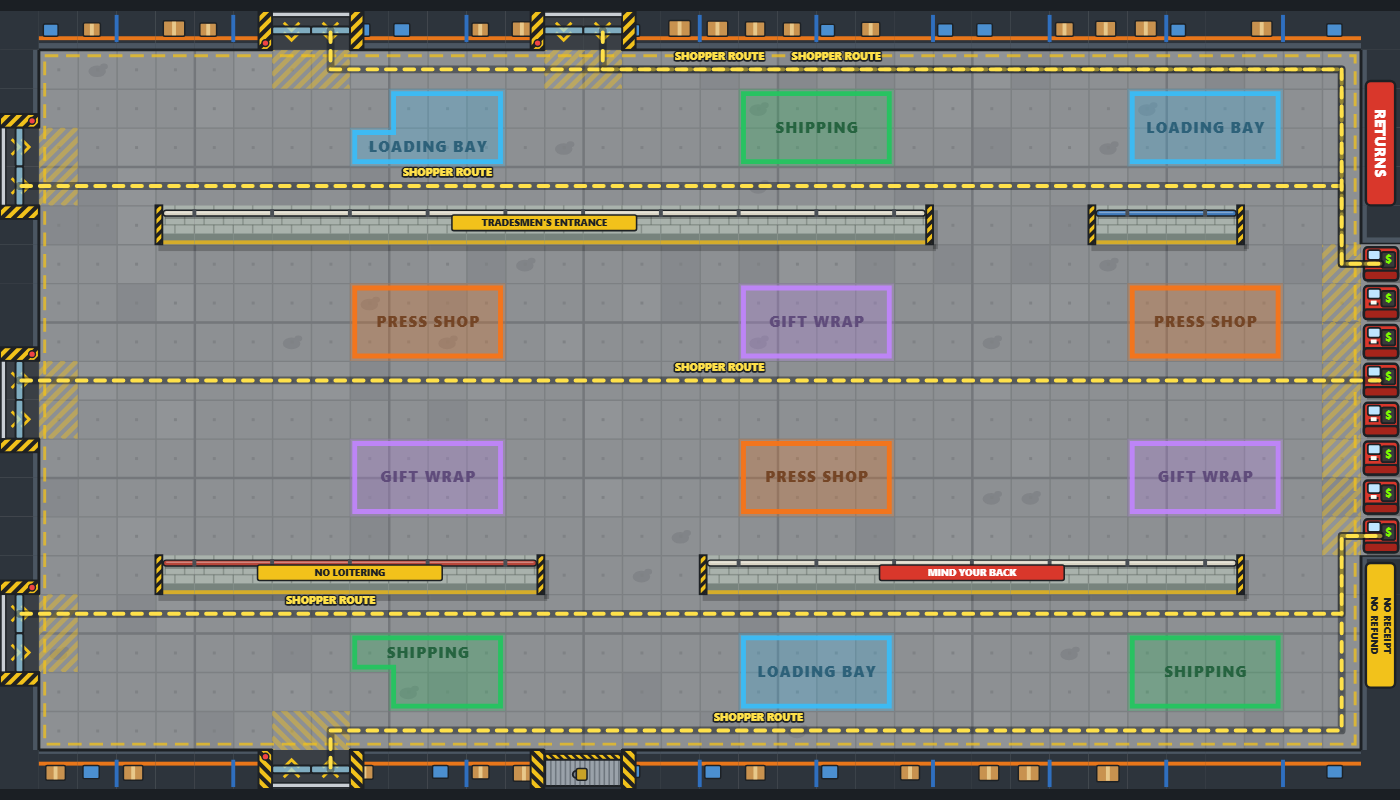
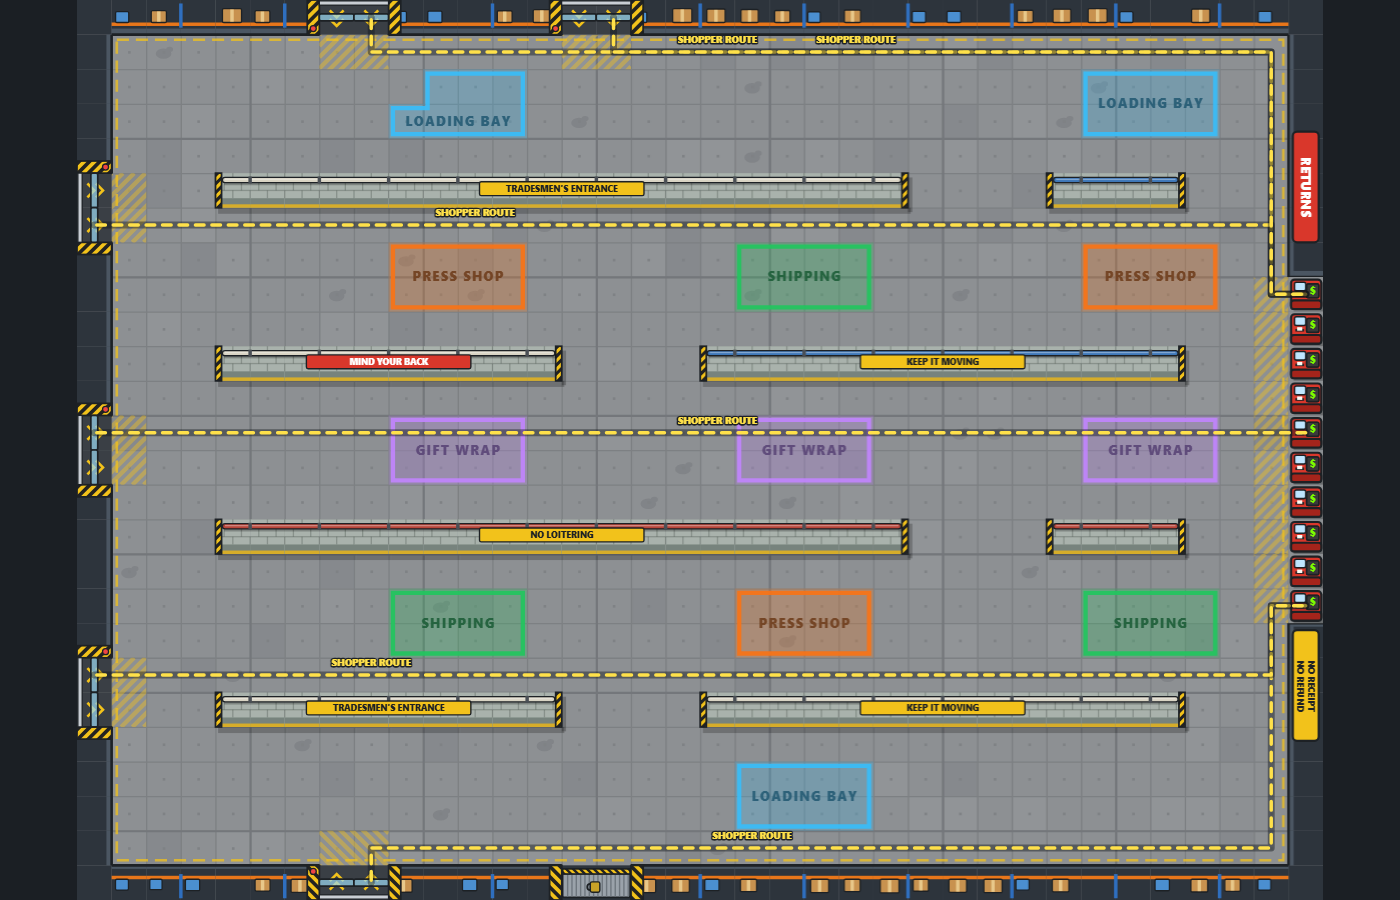
The Back Passage gets a taller floor plan of its own, so even the small stores have four to six corridors (0.3.01)
The Back Passage used the same rectangle as most designs, which left only three corridors
on the two smallest sizes. It now has a plot of its own (passageSize in src/sim/maps.js):
as wide as the size's rectangle but taller, with more corridors stacked up.

  Corner Shop 30 x 16 -> 30 x 19, 3 -> 4 corridors
  Outlet      36 x 20 -> 36 x 26, 3 -> 5
  Superstore  44 x 24 -> 44 x 28, 4 -> 5
  Megastore   54 x 30 -> 54 x 35, 5 -> 6
  Hypermarket 66 x 37 -> 66 x 43, 7 -> 8
  Distribution Centre 81 x 45 -> 81 x 53, 8 -> 10
  Regional Hub 99 x 55 -> 99 x 65, 10 -> 12
  Mega Mall  121 x 67 -> 121 x 78, 13 -> 15

The height is the lowest that gives the size its fewest corridors (4, 5, 5, 6 on the four
smallest) and at least an Open Warehouse's floor, preferring one where the top and bottom
corridors have a row to spare. The floor comes out 0.5 to 8% bigger than the warehouse's,
except the Outlet at 18%, which five corridors need. Patches of marked floor are two rows
tall, or one where two would leave room for only three corridors (the Corner Shop).

A Loading Bay no longer loses tiles to the floor in front of a top or bottom entrance on
the Corner Shop, the Hypermarket or the Mega Mall; only the Outlet still loses one tile.
The line checker fits the first production line in every section on every size (and more
second lines than before). Walks from every entrance to the tills are the same as on the
Open Warehouse, and the other entrances are 0.76 to 1.10 times the first.
[…]

diff --git a/src/sim/maps.js b/src/sim/maps.js
@@ -49,7 +49,7 @@ export const MAP_DESIGNS = {
   },
   corridors: {
     name: 'The Back Passage',
-    desc: 'Staff only. Long service corridors with a few gaps in the walls, and every kind of painted floor in a different corridor: your belts squeeze through the same gaps as the crowd.',
+    desc: 'Staff only. Long service corridors with a few gaps in the walls, and every kind of painted floor in a different corridor: your belts squeeze through the same gaps as the crowd. The plot is taller than most, to fit more corridors in.',
   },
   horseshoe: {
     name: 'The Strip Mall',
@@ -59,12 +59,15 @@ export const MAP_DESIGNS = {
 
 /**
  * The width and height of a store of this design and size: the rectangle in MAP_SIZES, unless a
- * design needs a bigger plot. Everything outside this file must read the made map's `w` and `h`.
+ * design needs a bigger plot (the Back Passage a taller one, the Strip Mall a bigger one).
+ * Everything outside this file must read the made map's `w` and `h`: a game keeps the plan it
+ * was made with, even if the design's plot changes in a later version.
  * @returns {{w: number, h: number}}
  */
 export function mapSize(design, size) {
   const z = MAP_SIZES[size] || MAP_SIZES.xs;
   if (design === 'horseshoe') return stripSize(MAP_SIZES[size] ? size : 'xs');
+  if (design === 'corridors') return passageSize(MAP_SIZES[size] ? size : 'xs');
   return { w: z.w, h: z.h };
 }
 
@@ -636,13 +639,15 @@ export function makeZones(w, h, tiles, doors, design) {
 // The Back Passage (version 0.3): the store's service corridors.
 
 /**
- * The Back Passage's layout, worked out from the size alone, so the walls (passages) and the
- * marked floor (passageZones) always agree. Long walls run across the store, leaving a hall
+ * The Back Passage's layout, worked out from the width and height alone, so the walls (passages)
+ * and the marked floor (passageZones) always agree. Long walls run across the store, leaving a hall
  * three tiles wide along the left wall (in front of the entrances) and the right (in front of the
- * tills), and cut it into corridors, as many as fit (three on the smallest stores, thirteen on the
- * biggest); the layout is the same upside down. Each production line has its four kinds of
- * marked floor in four corridors one below the other (on the three-corridor stores the Press Shop
- * and Gift Wrap share the middle one), so every line has to get through the walls between them.
+ * tills), and cut it into corridors, as many as fit (four on the smallest store, fifteen on the
+ * biggest: the design's plot is taller than the size's rectangle, see passageSize); the layout is
+ * the same upside down. Each production line has its four kinds of marked floor in four corridors
+ * one below the other (a store too low for four corridors, which no size is since 0.3.01, has
+ * three, and the Press Shop and Gift Wrap share the middle one), so every line has to get through
+ * the walls between them.
  * The walls have few openings: in the gap between two sections of marked floor, but only every
  * other gap, taking turns from one wall to the next, so a belt usually runs along its corridor to
  * find one. A whole production line reaches from one of the outer corridors to the other, so the
@@ -654,17 +659,21 @@ export function makeZones(w, h, tiles, doors, design) {
  */
 function passagePlan(w, h) {
   const rows = h - 2;
-  const tall = h < 18 ? 1 : 2;
   // The least each corridor needs: a patch and a row either side of it (two patches and three
   // rows on the three-corridor layout's middle one).
-  const need = (K) => Array.from({ length: K }, (_, j) => (K === 3 && j === 1 ? 2 * tall + 3 : tall + 2));
+  const need = (K, tall) => Array.from({ length: K }, (_, j) => (K === 3 && j === 1 ? 2 * tall + 3 : tall + 2));
   const thick = (K) => (K % 2 === 0 && h % 2 === 0 ? 1 : 0);
-  const fits = (K) => need(K).reduce((a, b) => a + b, 0) + K - 1 + thick(K) <= rows;
-  let K = 3;
-  while (fits(K + 1)) K++;
+  const fits = (K, tall) => need(K, tall).reduce((a, b) => a + b, 0) + K - 1 + thick(K) <= rows;
+  const most = (tall) => { let K = 3; while (fits(K + 1, tall)) K++; return K; };
+  // Patches are two rows tall, unless that leaves room for only three corridors (the Corner
+  // Shop): then one row, which makes room for a fourth.
+  let tall = 2, K = most(2);
+  if (K < 4) { tall = 1; K = most(1); }
   // Rows left over go to the narrowest corridors, a pair (one above the middle and its mirror
   // below) at a time; a single row left over goes to the middle corridor.
-  const hts = need(K);
+  // (Ties go to the outer pair first, so the top and bottom corridors are the first to get a row
+  // more: that keeps their Loading Bays clear of the floor in front of an entrance in the outer wall.)
+  const hts = need(K, tall);
   let spare = rows - hts.reduce((a, b) => a + b, 0) - (K - 1) - thick(K);
   const half = K >> 1, odd = K % 2;
   while (spare > 0) {
@@ -715,6 +724,43 @@ function passagePlan(w, h) {
  */
 const HALL = 3;
 
+/**
+ * The fewest corridors the Back Passage has on the smaller sizes (the owner asked for more
+ * corridors than the size's own rectangle has room for). The bigger sizes have plenty anyway.
+ */
+const PASSAGE_LEAST = { xs: 4, s: 5, m: 5, l: 6 };
+
+const passageCache = new Map();
+/**
+ * The Back Passage's plot for a size: the size's width, made taller (more corridors, one above
+ * the other) until it has at least PASSAGE_LEAST corridors and at least as much floor as an Open
+ * Warehouse of that size, the walls taking some. Of those heights it takes the lowest at which the
+ * top and bottom corridors also have a row to spare (so a Loading Bay never loses a tile to the
+ * floor in front of an entrance) without the floor coming out more than 15% bigger than the
+ * warehouse's; if there is none, the lowest. Worked out once per size.
+ */
+function passageSize(size) {
+  let hit = passageCache.get(size);
+  if (hit) return { ...hit };
+  const { w, h } = MAP_SIZES[size];
+  const target = [...makeMap('warehouse', size, 1).tiles].filter((c) => c === '.').length;
+  const least = PASSAGE_LEAST[size] || 0;
+  const fit = [];
+  for (let H = h; H <= 2 * h; H++) {
+    const plan = passagePlan(w, H);
+    if (plan.bands.length < least) continue;
+    let walls = 0;
+    passages(w, H, () => walls++);
+    const floor = (w - 2) * (H - 2) - walls;
+    if (floor < target) continue;
+    const roomy = plan.bands[0][1] - plan.bands[0][0] + 1 >= plan.tall + 3;
+    fit.push({ H, roomy: roomy && floor <= target * 1.15 });
+  }
+  hit = { w, h: (fit.find((f) => f.roomy) || fit[0]).H };
+  passageCache.set(size, hit);
+  return { ...hit };
+}
+
 /** The Back Passage: the corridor walls, with their openings (see passagePlan). */
 function passages(w, h, wall) {
   const { walls, gaps } = passagePlan(w, h);
@@ -732,7 +778,8 @@ function passages(w, h, wall) {
  * from the bottom corridor up. A patch is in the middle of its corridor, or in the top and bottom
  * corridors as far from the outer wall as it can be with a row to spare: that keeps a Loading Bay
  * clear of the two rows in front of an entrance in that wall where the corridor is wide enough.
- * Where it is not (the two smallest stores), the tiles in front of the entrance are left off it.
+ * Where it is not (the Outlet, where one tile is lost), the tiles in front of the entrance are
+ * left off it.
  * @returns {string} one character per tile: a key of ZONES, or a space
  */
 function passageZones(w, h, tiles, doors) {

diff --git a/test/newmaps.test.js b/test/newmaps.test.js
@@ -4,7 +4,7 @@
 import test from 'node:test';
 import assert from 'node:assert/strict';
 import {
-  createGame, addPlayer, applyCommand, canPlace, step, makeMap, getDist, mapSize, setMap, tillBanks,
+  createGame, addPlayer, applyCommand, canPlace, step, makeMap, makeZones, getDist, mapSize, setMap, tillBanks,
   MAP_SIZES, MAP_DESIGNS, ZONES, BUILD, DECOR, UNREACHABLE,
 } from '../src/sim/index.js';
 import { createDirector, PLACE_BANKS } from '../src/content/director.js';
@@ -179,11 +179,14 @@ function corridorsOf(s) {
 }
 
 test('the Back Passage is long corridors: walls right across, few openings, more corridors on bigger stores', () => {
+  // The fewest corridors on each size: what the owner asked for on the four smallest (0.3.01, on a
+  // taller plot), and on the bigger ones what they had on the size's own rectangle.
+  const least = { xs: 4, s: 5, m: 5, l: 6, xl: 7, xxl: 8, huge: 10, titan: 13 };
   let last = 0;
   for (const size of SIZES) {
     const s = createGame({ map: { design: 'corridors', size } });
     const { wallRow, count } = corridorsOf(s);
-    assert.ok(count >= 3, `${size}: ${count} corridors`);
+    assert.ok(count >= least[size], `${size}: ${count} corridors`);
     assert.ok(count >= last, `${size}: fewer corridors than the size below`);
     last = count;
     const sections = Math.floor((s.w - 4 - 3 - 9) / 10) + 1;
@@ -209,15 +212,57 @@ test('in the Back Passage the four kinds of marked floor of a section are in dif
       const at = {};
       for (let y = 1; y < s.h - 1; y++) for (let x = x0; x < x0 + 4; x++) if (s.zones[y * s.w + x] !== ' ') at[s.zones[y * s.w + x]] = band[y];
       assert.deepEqual(Object.keys(at).sort(), ['c', 'k', 'p', 'u'], `${size} x${x0}`);
-      if (count === 3) {
-        assert.ok(at.u !== at.p && at.c !== at.k && at.u !== at.c, `${size} x${x0}: ${JSON.stringify(at)}`);
-      } else {
-        assert.equal(new Set(Object.values(at)).size, 4, `${size} x${x0}: ${JSON.stringify(at)}`);
-        // ...one corridor after another, so every belt goes through just one wall.
-        assert.equal(Math.abs(at.u - at.p) + Math.abs(at.p - at.k) + Math.abs(at.k - at.c), 3, `${size} x${x0}`);
+      assert.ok(count >= 4, `${size}: ${count} corridors`);
+      assert.equal(new Set(Object.values(at)).size, 4, `${size} x${x0}: ${JSON.stringify(at)}`);
+      // ...one corridor after another, so every belt goes through just one wall.
+      assert.equal(Math.abs(at.u - at.p) + Math.abs(at.p - at.k) + Math.abs(at.k - at.c), 3, `${size} x${x0}`);
+    }
+  }
+});
+
+test('the Back Passage is taller than the size\'s rectangle, with about as much floor as the Open Warehouse', () => {
+  for (const size of SIZES) {
+    const s = createGame({ map: { design: 'corridors', size } });
+    const open = createGame({ map: { design: 'warehouse', size } });
+    // As wide as the size's rectangle; the extra room is more corridors stacked up.
+    assert.equal(s.w, MAP_SIZES[size].w, size);
+    assert.ok(s.h > MAP_SIZES[size].h, `${size}: ${s.w} x ${s.h}`);
+    assert.ok(s.w / s.h > 1.3, `${size}: ${s.w} x ${s.h} is too tall for a screen`);
+    // No less floor than the warehouse, the walls taking their share, and not much more. (The
+    // Outlet comes out 18% bigger: five corridors need that height.)
+    const ratio = floorOf(s) / floorOf(open);
+    assert.ok(ratio >= 1 && ratio <= (size === 's' ? 1.2 : 1.15), `${size}: ${floorOf(s)} floor tiles, ${floorOf(open)} on the Open Warehouse`);
+  }
+});
+
+test('in the Back Passage a Loading Bay loses no tile to an entrance (but one on the Outlet, with no row to spare)', () => {
+  for (const size of SIZES) {
+    const s = createGame({ map: { design: 'corridors', size } });
+    const tall = size === 'xs' ? 1 : 2; // (the Corner Shop's patches are one row tall)
+    for (let x0 = 9; x0 + 3 <= s.w - 4; x0 += 10) {
+      let n = 0;
+      for (let i = 0; i < s.zones.length; i++) if (s.zones[i] === 'u' && Math.abs((i % s.w) - x0 - 1.5) <= 2) n++;
+      assert.ok(n >= 4 * tall - (size === 's' ? 1 : 0), `${size} x${x0}: ${n} tiles of Loading Bay`);
+    }
+  }
+});
+
+test('the other designs come out tile for tile as before the Back Passage got its own plot', async () => {
+  const { createHash } = await import('node:crypto');
+  const hash = createHash('sha256');
+  for (const design of Object.keys(MAP_DESIGNS)) {
+    if (design === 'corridors') continue;
+    for (const size of SIZES) {
+      for (let slots = 1; slots <= 7; slots++) {
+        const m = makeMap(design, size, slots);
+        hash.update(JSON.stringify(m));
+        hash.update(makeZones(m.w, m.h, m.tiles, m.doors, design));
       }
     }
   }
+  // (Taken from 0.3.01 before the change. A new design added after the Back Passage in
+  // MAP_DESIGNS changes this: take the new hash then, after checking the old designs by hand.)
[1 lines of base64/hex data omitted]
 });
 
 test('DEB has lines of her own for the doors opening on each new design, about a third of the time, and nowhere else', () => {

diff --git a/docs/architecture.md b/docs/architecture.md
@@ -38,11 +38,11 @@ Furniture: the Food Court design fills the floor with tables, benches, planters,
 
 The Car Park: its parked cars work the same way (`park()` in `maps.js`; the letters are in `DECOR` too). Rows of parking bays run up and down the strips between the marked floor, so the lanes between the rows are where production lines go. A row of cars is a wall, with ways through: one straight across every row at the height of the first entrance (the walkway to the right-hand tills) and others staggered from row to row. It is the only design with two banks of tills. `tillBanks(state)` in `path.js` lists the banks of any store (each run of `'T'` tiles along a wall); shoppers walk to the nearest till whichever bank it is in, so nothing else in the rules needed to know. `canPlace` refuses, with the reason `'bank'`, a building that would cut any bank off from the others (`banksOpen`), so a second bank cannot simply be walled up. The Car Park also opens its entrances in a different order: the two in the bottom wall last. Nothing may assume the tills are in the right-hand wall, or that there is one bank.
 
-The Back Passage (key `corridors`, 0.3): long walls run across the store and cut it into corridors (three on the two smallest sizes, up to thirteen on the biggest), leaving a hall three tiles wide along the left wall and the right one; the walls have few openings (in every other gap between two sections of marked floor, taking turns from wall to wall). `passagePlan(w, h)` in `maps.js` works the layout out from the size alone, and both the walls (`passages`) and the marked floor (`passageZones`) read it, so they always agree. Each section's four kinds of marked floor are in different corridors, one below the other (the Press Shop and Gift Wrap share the middle one when there are only three), so every production line has to go through the walls' openings, and a whole line reaches from one outer corridor to the other: the crowd gets past it only round its end, through the same openings or the halls. The walls are ordinary `'#'` tiles (no decor); the renderer draws them as breeze block when the design is `corridors`.
+The Back Passage (key `corridors`, 0.3): long walls run across the store and cut it into corridors (four on the smallest size, five on the next two, six on the three-player size, up to fifteen on the biggest), leaving a hall three tiles wide along the left wall and the right one; the walls have few openings (in every other gap between two sections of marked floor, taking turns from wall to wall). `passagePlan(w, h)` in `maps.js` works the layout out from the width and height alone, and both the walls (`passages`) and the marked floor (`passageZones`) read it, so they always agree. Each section's four kinds of marked floor are in different corridors, one below the other, so every production line has to go through the walls' openings, and a whole line reaches from one outer corridor to the other: the crowd gets past it only round its end, through the same openings or the halls. Patches are two rows tall, one on the Corner Shop (two would leave room for only three corridors there; a store with only three, which no size has any more, puts the Press Shop and Gift Wrap together in the middle one). Its plot is taller than the size's rectangle and as wide (0.3.01): `passageSize(size)` takes the lowest height that gives the size at least its least number of corridors (`PASSAGE_LEAST`) and at least an Open Warehouse's floor, preferring one where the top and bottom corridors have a row to spare, so no Loading Bay loses a tile to the floor in front of an entrance (only the Outlet, 36 x 26, still loses one: the next height that avoids it has 30% more floor than the warehouse). The floor comes out 0 to 8% bigger than the warehouse's, 18% on the Outlet, where five corridors need that height. A game keeps the plan it was made with (`state.tiles`, `state.zones`, `w`, `h`), so a game saved on the older, lower plan resumes unchanged. The walls are ordinary `'#'` tiles (no decor); the renderer draws them as breeze block when the design is `corridors`.
 
 The Strip Mall (key `horseshoe`, 0.3): the store is a U round a car park that is not part of the store. `lotPlan(w, h)` in `maps.js` cuts a block up from the middle of the bottom wall (about a third of the width, from 45% of the way down); the block's left, right and top edges are ordinary `'#'` store wall, and everything inside them, down to the bottom edge of the map, is `'#'` in `state.tiles` with `'O'` in `state.decor` (`DECOR.O`). So every rule (walking, building, path maps, the checks that keep the tills reachable) already treats it as solid, and only the drawing changes: the renderer draws `'O'` tiles as an outdoor car park (`drawLot` in `floor.js`: tarmac, bays and parked cars, a pavement with shop awnings and signs, a sign on a pole) and the walls round it as outside walls; the minimap draws it dark. The Strip Mall has its own entrances (`stripDoors`: all seven on the left arm, three in the left wall and two each in the top and bottom walls of the arm) and its tills low on the right arm (`stripTills`), so everyone walks round the bend; every entrance is 1.0 to 1.2 times as far from the tills as the first one. Its marked floor (`stripZones`) has sections placed to fit the U: centred in each arm over its whole height, and over the car park in the bend, as tall as the bend allows (thinner patches on the two smallest sizes). Its plot is bigger than the size's rectangle: `stripSize(size)` scales the rectangle until the floor inside the U is as near as it gets to an Open Warehouse's of that size (within 3% on every size).
 
-Map sizes: `mapSize(design, size)` gives a store's width and height: the rectangle in `MAP_SIZES`, except the Strip Mall's bigger plot. Code outside `maps.js` must read the made map's `state.w` and `state.h`, never `MAP_SIZES[size].w` (the menu's and lobby's size pickers label each size with `labelSizes(select, design)` in `src/ui/settings.js`). `makeZones(w, h, tiles, doors, design)` takes the design as a fifth argument: designs with a layout of their own (the Back Passage, the Strip Mall) lay their marked floor their own way (without it, the ordinary layout). `tools/line-check.mjs` finds the sections from the marked floor itself (each run of columns with any), so it works on both.
+Map sizes: `mapSize(design, size)` gives a store's width and height: the rectangle in `MAP_SIZES`, except the Back Passage's taller plot and the Strip Mall's bigger one. Code outside `maps.js` must read the made map's `state.w` and `state.h`, never `MAP_SIZES[size].w` (the menu's and lobby's size pickers label each size with `labelSizes(select, design)` in `src/ui/settings.js`). `makeZones(w, h, tiles, doors, design)` takes the design as a fifth argument: designs with a layout of their own (the Back Passage, the Strip Mall) lay their marked floor their own way (without it, the ordinary layout). `tools/line-check.mjs` finds the sections from the marked floor itself (each run of columns with any), so it works on both.
 
 Marked floor: `state.zones` is a string like `state.tiles`, one character per tile: a key of `ZONES` (`u` Loading Bay, `p` Press Shop, `k` Gift Wrap, `c` Shipping) or a space. A building whose definition has a `zone` may only be placed on that kind of floor (`canPlace` returns `'zone'`). `makeZones()` in `maps.js` lays the patches out so that different kinds never touch, which is what makes belts necessary. An empty string means no marked floor: the bare default map used by most tests. The tutorial turns it on with `createGame({ training: true, zones: true })`.
 

diff --git a/README.md b/README.md
@@ -38,7 +38,7 @@ The sale has spilled outside. Rows of parked cars with the odd empty bay to sque
 ![Car Park](docs/img/map-carpark.png)
 
 ### The Back Passage
-Staff only. Long service corridors with a few gaps in the walls, and every kind of painted floor in a different corridor: your belts squeeze through the same gaps as the crowd.
+Staff only. Long service corridors with a few gaps in the walls, and every kind of painted floor in a different corridor: your belts squeeze through the same gaps as the crowd. The plot is taller than most, to fit more corridors in.
 
 ![The Back Passage](docs/img/map-corridors.png)
 
@@ -47,16 +47,16 @@ A U of dying shops round a car park nobody owns. In on one arm, round the bend, 
 
 ![The Strip Mall](docs/img/map-horseshoe.png)
 
-| Size | Tiles | The Strip Mall | Suits |
-|---|---|---|---|
-| Corner Shop | 30 x 16 | 33 x 18 | the original; cramped |
-| Outlet | 36 x 20 | 40 x 22 | 1 player |
-| Superstore | 44 x 24 | 48 x 26 | 2 players |
-| Megastore | 54 x 30 | 60 x 33 | 3 players |
-| Hypermarket | 66 x 37 | 73 x 41 | 4 players |
-| Distribution Centre | 81 x 45 | 89 x 50 | 5 players |
-| Regional Hub | 99 x 55 | 109 x 61 | 6 players |
-| Mega Mall | 121 x 67 | 134 x 74 | 7 players |
+| Size | Most designs | The Back Passage | The Strip Mall | Suits |
+|---|---|---|---|---|
+| Corner Shop | 30 x 16 | 30 x 19 | 33 x 18 | the original; cramped |
+| Outlet | 36 x 20 | 36 x 26 | 40 x 22 | 1 player |
+| Superstore | 44 x 24 | 44 x 28 | 48 x 26 | 2 players |
+| Megastore | 54 x 30 | 54 x 35 | 60 x 33 | 3 players |
+| Hypermarket | 66 x 37 | 66 x 43 | 73 x 41 | 4 players |
+| Distribution Centre | 81 x 45 | 81 x 53 | 89 x 50 | 5 players |
+| Regional Hub | 99 x 55 | 99 x 65 | 109 x 61 | 6 players |
+| Mega Mall | 121 x 67 | 121 x 78 | 134 x 74 | 7 players |
 <!-- /gen:maps -->
 
 ## The shoppers
